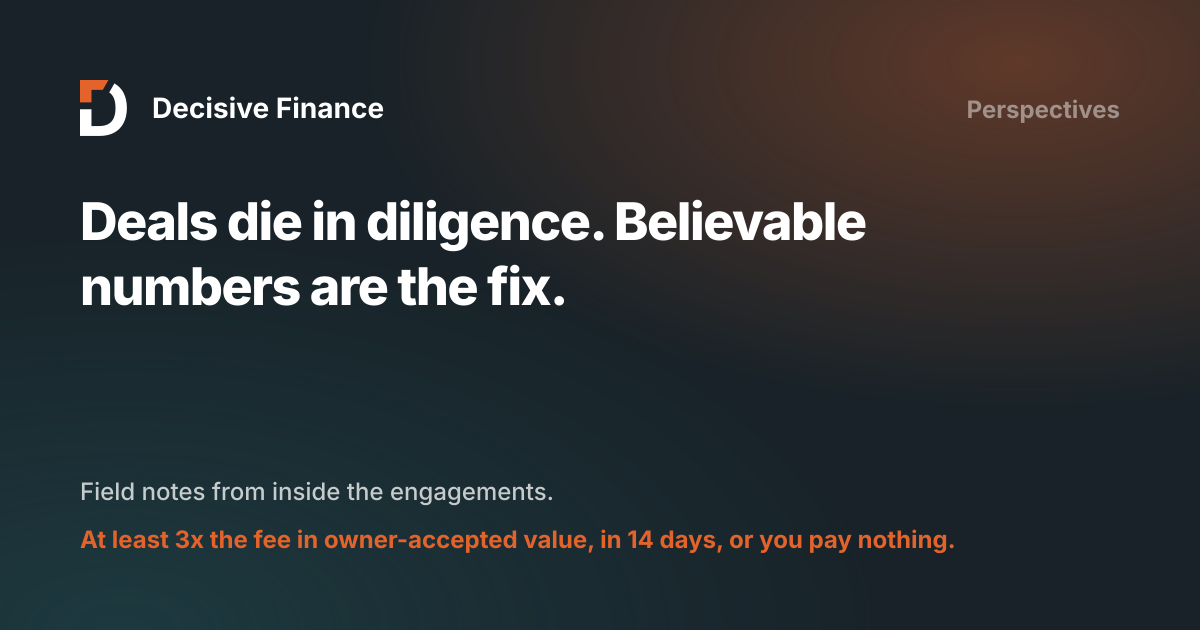
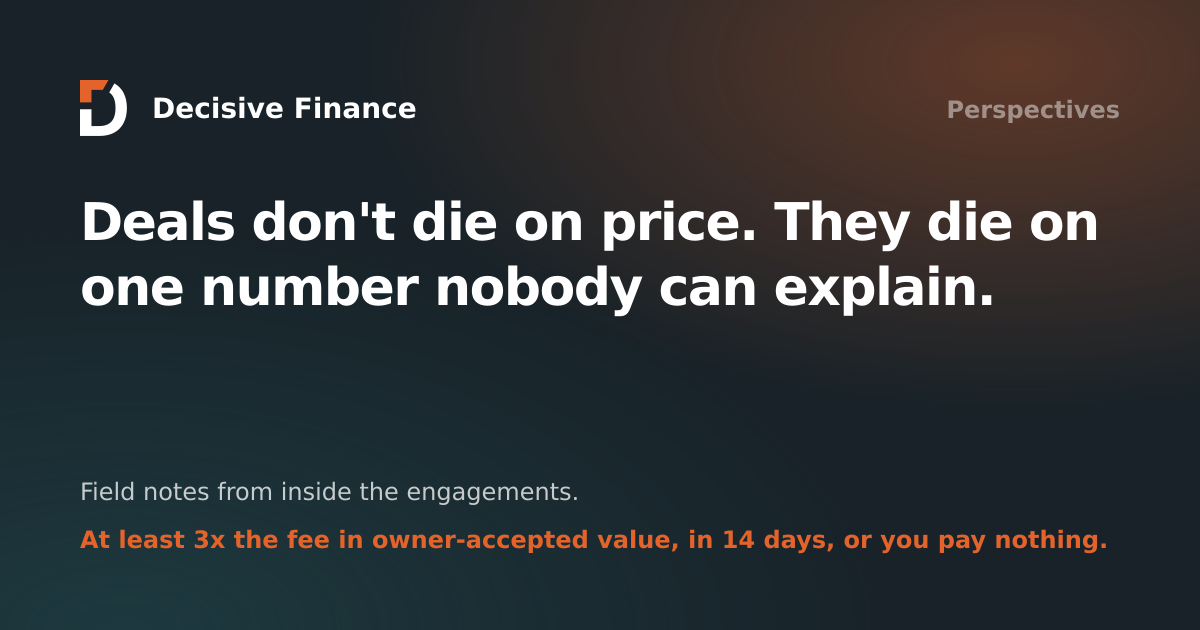
Perspectives: two-prong headline 'The numbers you run on are the numbers you sell on.' with new sub and meta; six near-duplicate titles made distinct (slugs unchanged), OG cards regenerated. Approved by Russ 2026-10-20, OA inbox entry 19

diff --git a/src/pages/perspectives/rss.xml.js b/src/pages/perspectives/rss.xml.js
@@ -10,7 +10,7 @@ export async function GET(context) {
   return rss({
     title: 'Decisive Finance: Perspectives',
     description:
-      'Field notes on the numbers behind what your company is worth: sellable numbers, worth more, surviving diligence, and the exit clock.',
+      'The numbers you run on are the numbers you sell on. Field notes on where the profit went, sellable numbers, worth more, surviving diligence, and the exit clock.',
     site: context.site,
     items: posts.map((post) => ({
       title: post.data.title,

diff --git a/src/content/blog/surviving-diligence.md b/src/content/blog/surviving-diligence.md
@@ -1,5 +1,5 @@
 ---
-title: "Deals die in diligence. Believable numbers are the fix."
+title: "Deals don't die on price. They die on one number nobody can explain."
 slug: surviving-diligence
 description: "Most broken deals don't break on price. They break when a buyer stops trusting the numbers. Here are the five findings that re-trade a deal, and how to clear them first."
 pubDate: 2026-05-19

diff --git a/src/content/blog/two-numbers-behind-the-price.md b/src/content/blog/two-numbers-behind-the-price.md
@@ -1,5 +1,5 @@
 ---
-title: "A sale price is a multiple times earnings. Work both numbers"
+title: "Two numbers set your price. Most owners work neither."
 slug: two-numbers-behind-the-price
 description: "Owners chase revenue and hope for a good multiple. A sale price is two numbers, earnings and the multiple, with three levers each. Here is how to work both."
 pubDate: 2026-06-09

diff --git a/src/content/blog/worth-more-before-you-sell.md b/src/content/blog/worth-more-before-you-sell.md
@@ -1,5 +1,5 @@
 ---
-title: "A sale price is a multiple times earnings. Grow both."
+title: "Five places your sale price gets made, years before you sell"
 slug: worth-more-before-you-sell
 description: "The years before a sale are when a company's value is made or left on the table. Here are the five levers that move both numbers in the sale-price equation."
 pubDate: 2026-05-12

diff --git a/src/content/blog/deals-die-in-diligence.md b/src/content/blog/deals-die-in-diligence.md
@@ -1,5 +1,5 @@
 ---
-title: "Deals die in diligence, and it is almost never the business"
+title: "The re-trade: how a deal dies without anyone walking away"
 slug: deals-die-in-diligence
 description: "Most deals that collapse do not fail on the business. They fail on believability, when a buyer stops trusting the numbers. Here is what actually kills them."
 pubDate: 2026-06-09

diff --git a/src/content/blog/the-exit-clock.md b/src/content/blog/the-exit-clock.md
@@ -1,5 +1,5 @@
 ---
-title: "The trailing-twelve clock doesn't start until the numbers are true"
+title: "Your exit clock is already running. Here's how to read it."
 slug: the-exit-clock
 description: "Owners think the sale clock starts when they decide to sell. It starts when the numbers are believable. Every month you wait moves the sale date a month."
 pubDate: 2026-05-26

diff --git a/src/content/blog/when-the-clock-actually-starts.md b/src/content/blog/when-the-clock-actually-starts.md
@@ -1,5 +1,5 @@
 ---
-title: "The trailing-twelve clock does not start until the numbers are true"
+title: "Fix the books in March, sell next March"
 slug: when-the-clock-actually-starts
 description: "A buyer wants twelve believable months behind you. So the clock on your sale does not start when you decide to sell. It starts when your numbers are true."
 pubDate: 2026-06-02
